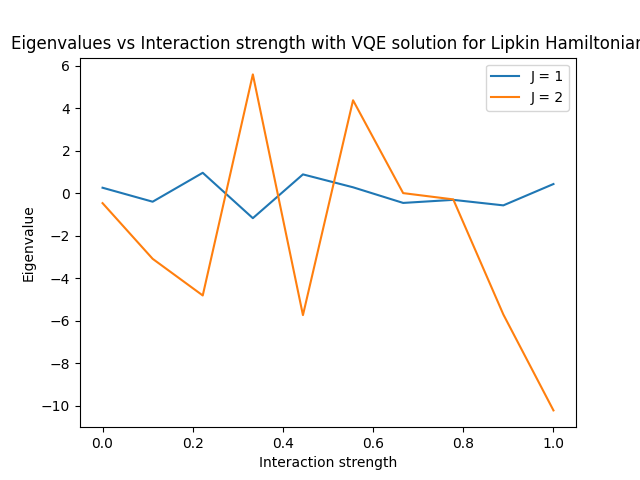
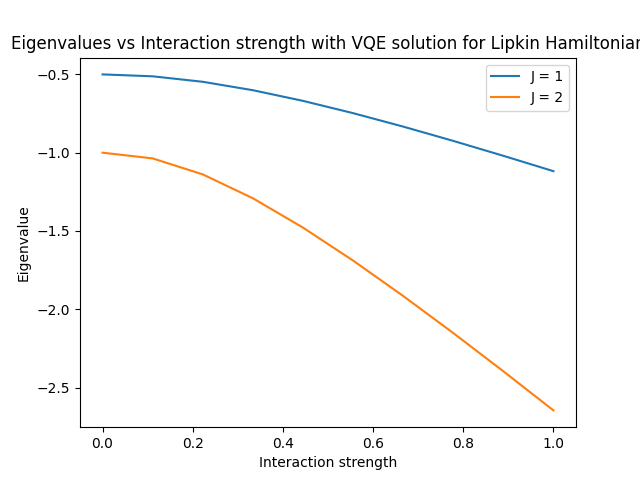
Fixed f and g

diff --git a/problem_g.py b/problem_g.py
@@ -9,111 +9,68 @@ from qiskit.quantum_info import SparsePauliOp
 import numpy as np
 import matplotlib.pyplot as plt
 
-# Define the angular momentum operators
-
-def Jz(J):
-    m_values = np.arange(J, -J-1, -1)
-    return np.diag(m_values)
-X = Jz(1) 
-print (X[0,0])
-
-def J_plus(J):
-    dim = int(2 * J + 1)
-    J_plus_matrix = np.zeros((dim, dim))
-    for m in range(dim - 1):
-        value = (J - m) * (J + m + 1)
-        if value > 0:
-            J_plus_matrix[m, m + 1] = np.sqrt(value)
-    return J_plus_matrix
-
-
-def J_minus(J):
-    return J_plus(J).T
+# Define Pauli matrices and identity matrix
+sigma_x = np.array([[0, 1], [1, 0]])
+sigma_y = np.array([[0, -1j], [1j, 0]])
+sigma_z = np.array([[1, 0], [0, -1]])
+identity = np.array([[1, 0], [0, 1]])
+W = 0
 
 # Updated Lipkin Hamiltonian using angular momentum operators
 def lipkin_hamiltonian(J, V):
     epsilon = 0.5
-    return Operator(- epsilon * Jz(J) + 0.5 * V * (np.dot(J_plus(J), J_plus(J)) + np.dot(J_minus(J), J_minus(J))))
-
+    if J == 1:
+        HJ1_rewritten = -epsilon * np.kron(sigma_z, identity) - V * np.kron(sigma_x, identity)
+        return HJ1_rewritten 
+    elif J == 2:
+        HJ2_rewritten = (-2 * epsilon * np.kron(sigma_z, np.kron(identity, identity)) +
+                  np.sqrt(6) * V * np.kron(sigma_x, np.kron(identity, identity)) +
+                  3 * W * np.kron(identity, np.kron(sigma_z, identity)))
+        return HJ2_rewritten
+    
 def SparseLipkinHamiltonian(J, V): 
     epsilon = 0.5
-    #Defining the coefficients for the Pauli terms. Have to convert the Hamiltonian to a SparsePauliOp to use VQE.
+    #Have to convert the Hamiltonian to a SparsePauliOp to use VQE.
     if J == 1:
-        coefficients = [
-        ("XX", - epsilon * Jz(J)[0,0] + 0.5 + V * (np.dot(J_plus(J), J_plus(J)))[0,0] + np.dot(J_minus(J), J_minus(J))[0,0]),
-        ("XY", - epsilon * Jz(J)[0,1] + 0.5 + V * (np.dot(J_plus(J), J_plus(J)))[0,1] + np.dot(J_minus(J), J_minus(J))[0,1]),
-        ("XZ", - epsilon * Jz(J)[0,2] + 0.5 + V * (np.dot(J_plus(J), J_plus(J)))[0,2] + np.dot(J_minus(J), J_minus(J))[0,2]),
-        ("YX", - epsilon * Jz(J)[1,0] + 0.5 + V * (np.dot(J_plus(J), J_plus(J)))[1,0] + np.dot(J_minus(J), J_minus(J))[1,0]),
-        ("YY", - epsilon * Jz(J)[1,1] + 0.5 + V * (np.dot(J_plus(J), J_plus(J)))[1,1] + np.dot(J_minus(J), J_minus(J))[1,1]),
-        ("YZ", - epsilon * Jz(J)[1,2] + 0.5 + V * (np.dot(J_plus(J), J_plus(J)))[1,2] + np.dot(J_minus(J), J_minus(J))[1,2]),
-        ("ZX", - epsilon * Jz(J)[2,0] + 0.5 + V * (np.dot(J_plus(J), J_plus(J)))[2,0] + np.dot(J_minus(J), J_minus(J))[2,0]),
-        ("ZY", - epsilon * Jz(J)[2,1] + 0.5 + V * (np.dot(J_plus(J), J_plus(J)))[2,1] + np.dot(J_minus(J), J_minus(J))[2,1]),
-        ("ZZ", - epsilon * Jz(J)[2,2] + 0.5 + V * (np.dot(J_plus(J), J_plus(J)))[2,2] + np.dot(J_minus(J), J_minus(J))[2,2]),
-    ]
         # Create the SparsePauliOp
-        H_op = SparsePauliOp.from_list(coefficients)
-
+        H_op = SparsePauliOp.from_operator(lipkin_hamiltonian(J, V))
     elif J == 2:
-        coefficients = [
-        ("XX", - epsilon * Jz(J)[0,0] + 0.5 + V * (np.dot(J_plus(J), J_plus(J)))[0,0] + np.dot(J_minus(J), J_minus(J))[0,0]),
-        ("XY", - epsilon * Jz(J)[0,1] + 0.5 + V * (np.dot(J_plus(J), J_plus(J)))[0,1] + np.dot(J_minus(J), J_minus(J))[0,1]),
-        ("XZ", - epsilon * Jz(J)[0,2] + 0.5 + V * (np.dot(J_plus(J), J_plus(J)))[0,2] + np.dot(J_minus(J), J_minus(J))[0,2]),
-        ("XI", - epsilon * Jz(J)[0,3] + 0.5 + V * (np.dot(J_plus(J), J_plus(J)))[0,3] + np.dot(J_minus(J), J_minus(J))[0,3]),
-        ("XXX",- epsilon * Jz(J)[0,4] + 0.5 + V * (np.dot(J_plus(J), J_plus(J)))[0,4] + np.dot(J_minus(J), J_minus(J))[0,4]),
-        ("YX", - epsilon * Jz(J)[1,0] + 0.5 + V * (np.dot(J_plus(J), J_plus(J)))[1,0] + np.dot(J_minus(J), J_minus(J))[1,0]),
-        ("YY", - epsilon * Jz(J)[1,1] + 0.5 + V * (np.dot(J_plus(J), J_plus(J)))[1,1] + np.dot(J_minus(J), J_minus(J))[1,1]),
-        ("YZ", - epsilon * Jz(J)[1,2] + 0.5 + V * (np.dot(J_plus(J), J_plus(J)))[1,2] + np.dot(J_minus(J), J_minus(J))[1,2]),
-        ("YI", - epsilon * Jz(J)[1,3] + 0.5 + V * (np.dot(J_plus(J), J_plus(J)))[1,3] + np.dot(J_minus(J), J_minus(J))[1,3]),
-        ("YXX",- epsilon * Jz(J)[1,4] + 0.5 + V * (np.dot(J_plus(J), J_plus(J)))[1,4] + np.dot(J_minus(J), J_minus(J))[1,4]),
-        ("ZX", - epsilon * Jz(J)[2,0] + 0.5 + V * (np.dot(J_plus(J), J_plus(J)))[2,0] + np.dot(J_minus(J), J_minus(J))[2,0]),
-        ("ZY", - epsilon * Jz(J)[2,1] + 0.5 + V * (np.dot(J_plus(J), J_plus(J)))[2,1] + np.dot(J_minus(J), J_minus(J))[2,1]),
-        ("ZZ", - epsilon * Jz(J)[2,2] + 0.5 + V * (np.dot(J_plus(J), J_plus(J)))[2,2] + np.dot(J_minus(J), J_minus(J))[2,2]),
-        ("ZI", - epsilon * Jz(J)[2,3] + 0.5 + V * (np.dot(J_plus(J), J_plus(J)))[2,3] + np.dot(J_minus(J), J_minus(J))[2,3]),
-        ("ZXX",- epsilon * Jz(J)[2,4] + 0.5 + V * (np.dot(J_plus(J), J_plus(J)))[2,4] + np.dot(J_minus(J), J_minus(J))[2,4]),
-        ("IX", - epsilon * Jz(J)[3,0] + 0.5 + V * (np.dot(J_plus(J), J_plus(J)))[3,0] + np.dot(J_minus(J), J_minus(J))[3,0]),
-        ("IY", - epsilon * Jz(J)[3,1] + 0.5 + V * (np.dot(J_plus(J), J_plus(J)))[3,1] + np.dot(J_minus(J), J_minus(J))[3,1]),
-        ("IZ", - epsilon * Jz(J)[3,2] + 0.5 + V * (np.dot(J_plus(J), J_plus(J)))[3,2] + np.dot(J_minus(J), J_minus(J))[3,2]),
-        ("II", - epsilon * Jz(J)[3,3] + 0.5 + V * (np.dot(J_plus(J), J_plus(J)))[3,3] + np.dot(J_minus(J), J_minus(J))[3,3]),
-        ("IXX",- epsilon * Jz(J)[3,4] + 0.5 + V * (np.dot(J_plus(J), J_plus(J)))[3,4] + np.dot(J_minus(J), J_minus(J))[3,4]),
-        ("XXX",- epsilon * Jz(J)[4,0] + 0.5 + V * (np.dot(J_plus(J), J_plus(J)))[4,0] + np.dot(J_minus(J), J_minus(J))[4,0]),
-        ("XXY",- epsilon * Jz(J)[4,1] + 0.5 + V * (np.dot(J_plus(J), J_plus(J)))[4,1] + np.dot(J_minus(J), J_minus(J))[4,1]),
-        ("XXZ",- epsilon * Jz(J)[4,2] + 0.5 + V * (np.dot(J_plus(J), J_plus(J)))[4,2] + np.dot(J_minus(J), J_minus(J))[4,2]),
-        ("XXI",- epsilon * Jz(J)[4,3] + 0.5 + V * (np.dot(J_plus(J), J_plus(J)))[4,3] + np.dot(J_minus(J), J_minus(J))[4,3]),
-        ("XXXX",-epsilon * Jz(J)[4,4] + 0.5 + V * (np.dot(J_plus(J), J_plus(J)))[4,4] + np.dot(J_minus(J), J_minus(J))[4,4]),
-    ]
         # Create the SparsePauliOp
-        H_op = SparsePauliOp.from_list(coefficients)
+        H_op = SparsePauliOp.from_operator(lipkin_hamiltonian(J, V))
     return H_op 
 
 # Set up the VQE algorithm
 
 # Parameters
-num_qubits = 1
 estimator = Estimator()
 backend = Aer.get_backend('statevector_simulator')
-optimizer = ADAM(maxiter=100)
-ansatz = TwoLocal(num_qubits=num_qubits, rotation_blocks='ry', entanglement_blocks='cz', reps=1, entanglement='linear')
+optimizer = ADAM(maxiter=5000)
+
 
 def problem_g():
 
     interaction_strengths = np.linspace(0, 1, 10)
     J = [1, 2]
+    qbits = [2,4]
     
     eigenval_J1 = []
     eigenval_J2 = []
 
-    for i in interaction_strengths:
-        for j in J: 
+    for j, k in zip(J, qbits): 
 
+        # Define the ansatz
+        ansatz = TwoLocal(num_qubits=k, rotation_blocks='ry', entanglement_blocks='cz', reps=1, entanglement='linear')
+            
+        for i in interaction_strengths:
+    
             # Define the Hamiltonian 
-            H = SparseLipkinHamiltonian(j, i)
-
+            H_op = SparseLipkinHamiltonian(j, i)
 
             # Set up the VQE
             vqe = VQE(estimator, ansatz, optimizer)
 
             # Run the VQE
-            result = vqe.compute_minimum_eigenvalue(operator=H)
+            result = vqe.compute_minimum_eigenvalue(H_op)
 
             if j == 1:
                 eigenval_J1.append(result.eigenvalue)

diff --git a/problem_f.py b/problem_f.py
@@ -2,24 +2,25 @@ import numpy as np
 import matplotlib.pyplot as plt
 
 
-def Jz(J):
-    m_values = np.arange(J, -J-1, -1)
-    return np.diag(m_values)
+# Define Pauli matrices and identity matrix
+sigma_x = np.array([[0, 1], [1, 0]])
+sigma_y = np.array([[0, -1j], [1j, 0]])
+sigma_z = np.array([[1, 0], [0, -1]])
+identity = np.array([[1, 0], [0, 1]])
 
+epsilon = 0.5
+W = 0
+V = 1
 
-def J_plus(J):
-    dim = int(2 * J + 1)
-    J_plus_matrix = np.zeros((dim, dim))
-    for m in range(dim - 1):
-        value = (J - m) * (J + m + 1)
-        if value > 0:
-            J_plus_matrix[m, m + 1] = np.sqrt(value)
-    return J_plus_matrix
+HJ1 = np.array([[-epsilon, 0, -V],
+              [0, 0, 0],
+              [-V, 0, epsilon],])
 
-
-def J_minus(J):
-    return J_plus(J).T
-
+HJ2 = np.array([[-2*epsilon, 0, np.sqrt(6)*V, 0, 0],
+              [0, -epsilon + 3*W, 0, 3*V, 0],
+              [np.sqrt(6)*V, 0, 4*W, 0, np.sqrt(6)*V],
+              [0, 3*V, 0, -epsilon + 3*W, 0],
+              [0, 0, np.sqrt(6)*V, 0, 2*epsilon],])
 
 def problem_f() -> None:
 
@@ -30,27 +31,28 @@ def problem_f() -> None:
     eigenval_J2 = []
 
     for i in interaction_strengths: 
-        # Define the operators for J = 1
-        J = 1
+        # Defining W
+        W = 0
+        
+        # Placeholder for interaction strength
+        V = i
 
-        # Hamiltonian for J = 1
-        V = i  # Example interaction strength
-        H = - epsilon * Jz(J) + 0.5 * V * (np.dot(J_plus(J), J_plus(J)) + np.dot(J_minus(J), J_minus(J)))
-
+        # Rewrite HJ1 and HJ2 in terms of Pauli matrices
+        HJ1_rewritten = -epsilon * np.kron(sigma_z, identity) - V * np.kron(sigma_x, identity)
+       
         # Calculate eigenvalues
-        w, v = np.linalg.eigh(H)
+        w, v = np.linalg.eigh(HJ1_rewritten)
         
         # Storing eigenvalues for J = 1
         eigenval_J1.append(np.min(w))
 
-        # Define the operators for J = 2
-        J2 = 2
-
-        # Hamiltonian for J = 2
-        H_J2 = - epsilon * Jz(J2) + 0.5 * V * (np.dot(J_plus(J2), J_plus(J2)) + np.dot(J_minus(J2), J_minus(J2)))
+        # Rewrite HJ2 for J = 2 with N = 4 particles
+        HJ2_rewritten = (-2 * epsilon * np.kron(sigma_z, np.kron(identity, identity)) +
+                  np.sqrt(6) * V * np.kron(sigma_x, np.kron(identity, identity)) +
+                  3 * W * np.kron(identity, np.kron(sigma_z, identity)))
 
         # Calculate eigenvalues for J = 2
-        w_J2, v_J2 = np.linalg.eigh(H_J2)
+        w_J2, v_J2 = np.linalg.eigh(HJ2_rewritten)
 
         # Storing eigenvalues for J = 2
         eigenval_J2.append(np.min(w_J2))
